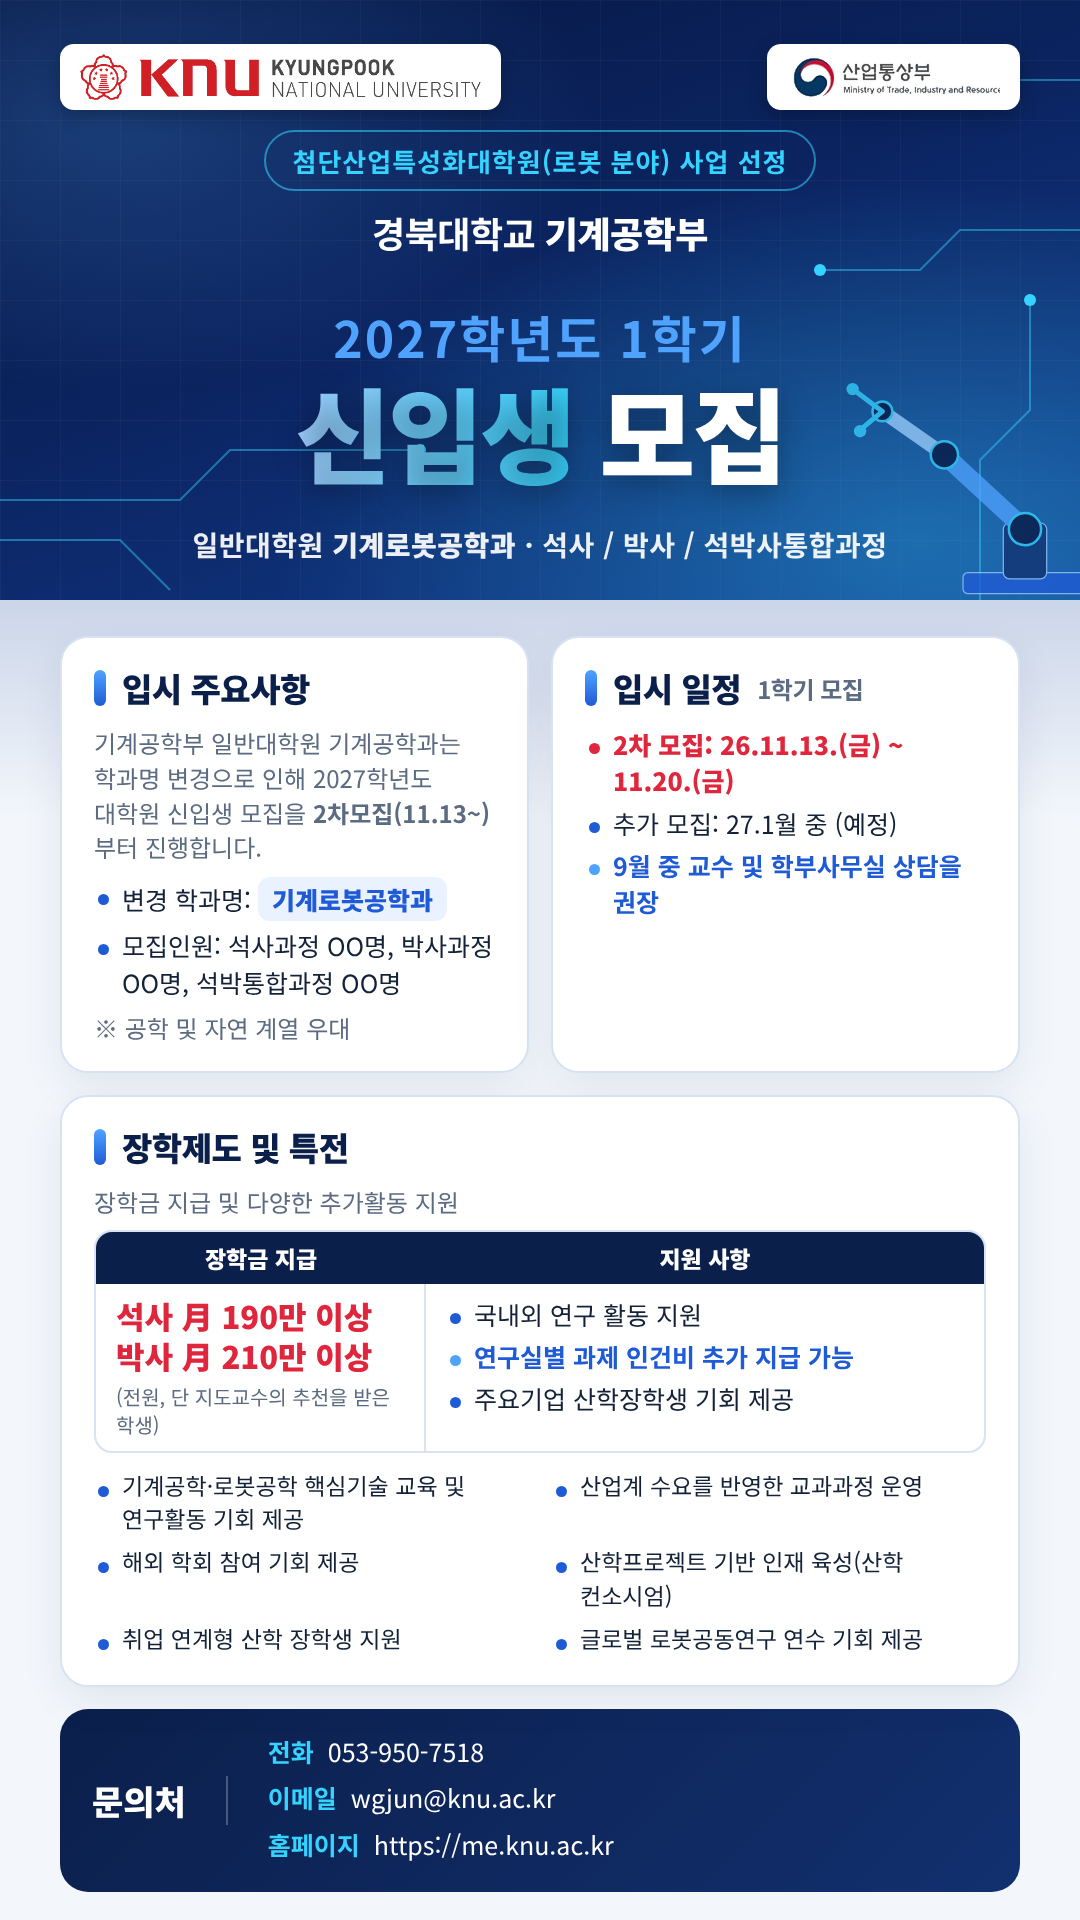
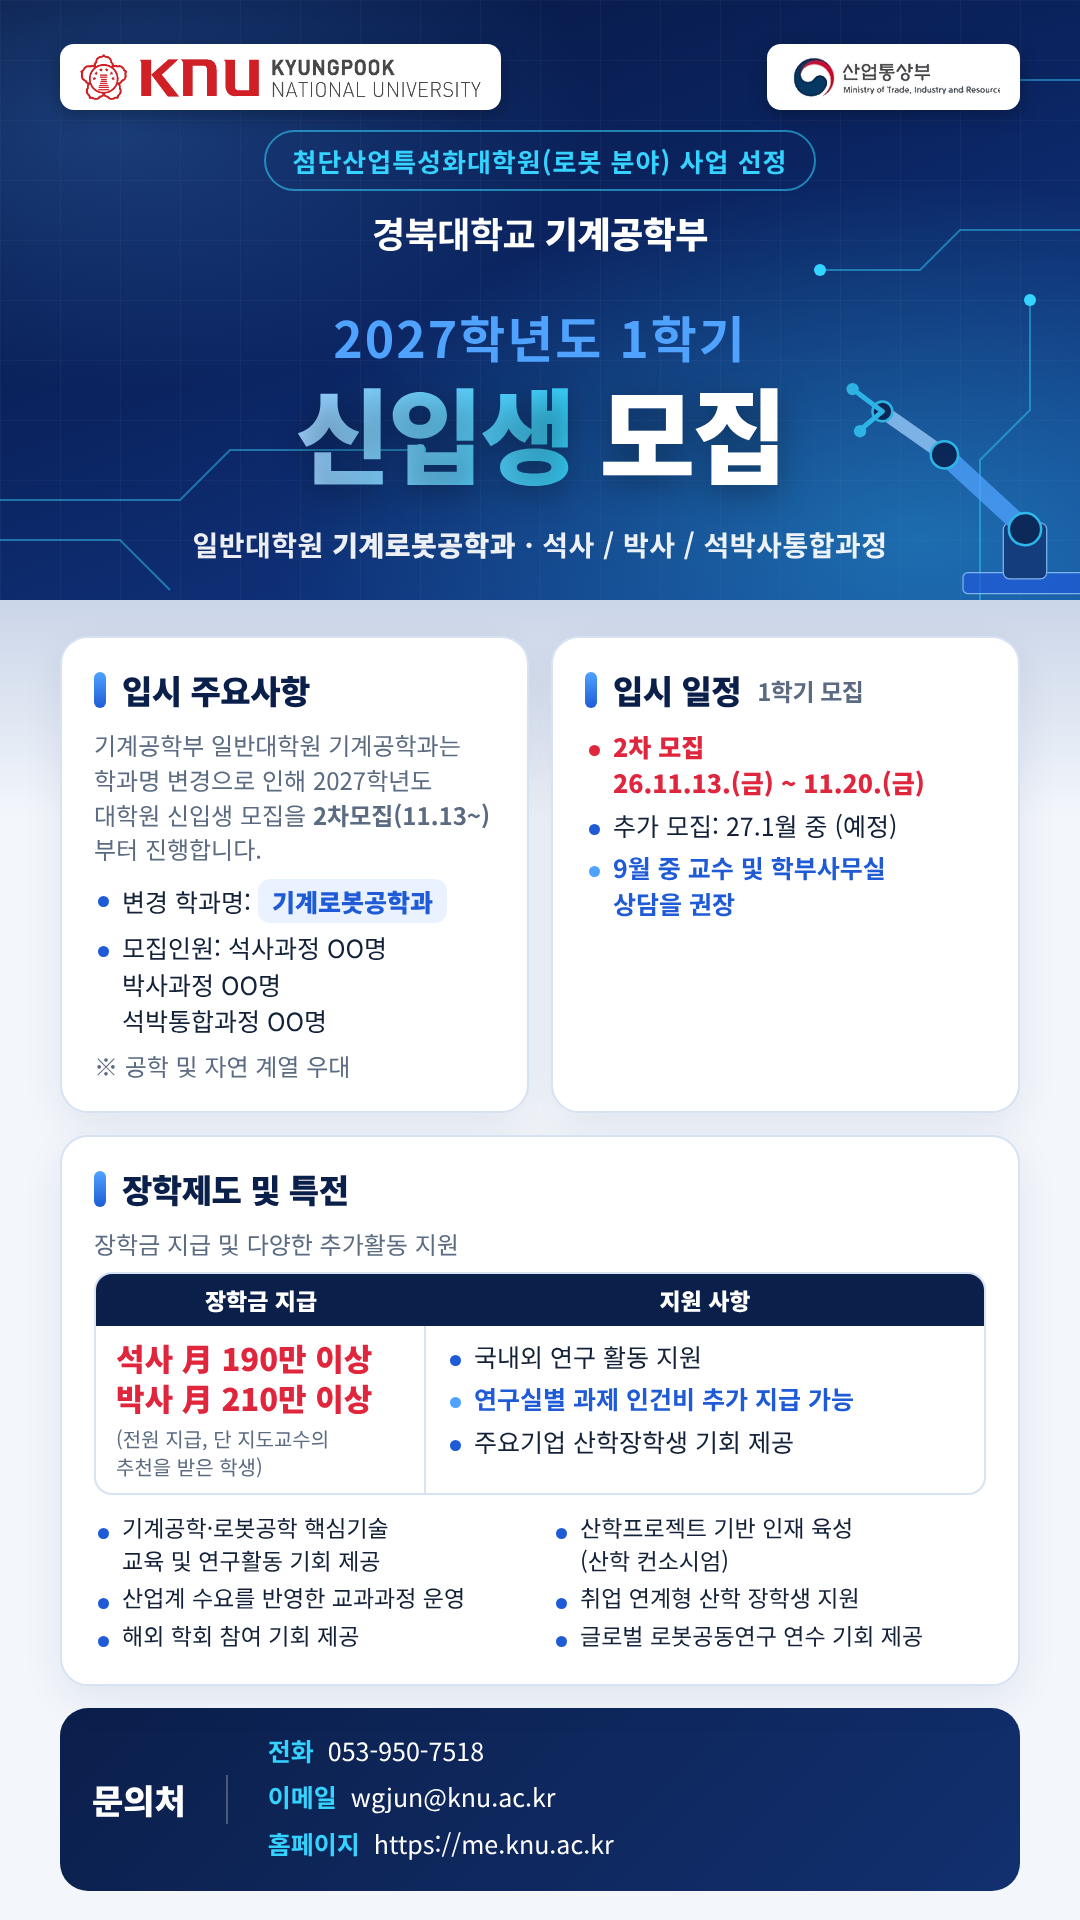
Pamphlet: clean up line breaks
Claude-Session: https://claude.ai/code/session_01X5vWuAxHQUAdM2fNyjj7ES

diff --git a/pamphlet/source.html b/pamphlet/source.html
@@ -32,7 +32,7 @@
   /* ---------- BODY ---------- */
   .body{position:relative;padding:36px 60px 0;background:var(--bg);height:1320px}
   .body::before{content:"";position:absolute;left:0;right:0;top:0;height:220px;background:linear-gradient(180deg,#123B8E 0%,var(--bg) 100%);opacity:.18}
-  .card{position:relative;background:#fff;border:2px solid var(--line);border-radius:28px;padding:26px 32px;box-shadow:0 14px 40px rgba(11,31,75,.08)}
+  .card{position:relative;background:#fff;border:2px solid var(--line);border-radius:28px;padding:28px 32px;box-shadow:0 14px 40px rgba(11,31,75,.08)}
   .card h3{display:flex;align-items:center;gap:16px;font-size:33px;font-weight:900;color:var(--navy);margin-bottom:14px;letter-spacing:-.5px}
   .card h3::before{content:"";width:12px;height:36px;border-radius:6px;background:linear-gradient(180deg,var(--sky),var(--blue))}
   .grid{display:grid;grid-template-columns:1fr 1fr;gap:22px;margin-bottom:22px}
@@ -54,7 +54,8 @@
   .sch .amt{border-right:2px solid var(--line)}
   .sch .amt b{display:block;font-size:31px;color:var(--red);font-weight:900;line-height:1.3}
   .sch .amt small{display:block;font-size:20px;color:var(--mute);margin-top:6px;line-height:1.4}
-  .perks{display:grid;grid-template-columns:1fr 1fr;gap:6px 24px}
+  .perks{columns:2;column-gap:24px}
+  .perks li{break-inside:avoid}
   .perks li{font-size:23px;margin-bottom:4px}
 
   /* contact */
@@ -126,7 +127,7 @@
       <p class="lead">기계공학부 일반대학원 기계공학과는 학과명 변경으로 인해 2027학년도 대학원 신입생 모집을 <b>2차모집(11.13~)</b>부터 진행합니다.</p>
       <ul>
         <li>변경 학과명: <span class="pill">기계로봇공학과</span></li>
-        <li>모집인원: 석사과정 OO명, 박사과정 OO명, 석박통합과정 OO명</li>
+        <li>모집인원: 석사과정 OO명<br>박사과정 OO명<br>석박통합과정 OO명</li>
       </ul>
       <div class="note">※ 공학 및 자연 계열 우대</div>
     </div>
@@ -134,9 +135,9 @@
     <div class="card">
       <h3>입시 일정 <small style="font-size:24px;color:var(--mute);font-weight:600">1학기 모집</small></h3>
       <ul>
-        <li class="hot">2차 모집: 26.11.13.(금) ~ 11.20.(금)</li>
+        <li class="hot">2차 모집<br>26.11.13.(금) ~ 11.20.(금)</li>
         <li>추가 모집: 27.1월 중 (예정)</li>
-        <li class="key">9월 중 교수 및 학부사무실 상담을 권장</li>
+        <li class="key">9월 중 교수 및 학부사무실<br>상담을 권장</li>
       </ul>
     </div>
   </div>
@@ -149,7 +150,7 @@
       <div class="amt">
         <b>석사 月 190만 이상</b>
         <b>박사 月 210만 이상</b>
-        <small>(전원, 단 지도교수의 추천을 받은 학생)</small>
+        <small>(전원 지급, 단 지도교수의<br>추천을 받은 학생)</small>
       </div>
       <div>
         <ul>
@@ -160,10 +161,10 @@
       </div>
     </div>
     <ul class="perks">
-      <li>기계공학·로봇공학 핵심기술 교육 및 연구활동 기회 제공</li>
+      <li>기계공학·로봇공학 핵심기술<br>교육 및 연구활동 기회 제공</li>
       <li>산업계 수요를 반영한 교과과정 운영</li>
       <li>해외 학회 참여 기회 제공</li>
-      <li>산학프로젝트 기반 인재 육성(산학 컨소시엄)</li>
+      <li>산학프로젝트 기반 인재 육성<br>(산학 컨소시엄)</li>
       <li>취업 연계형 산학 장학생 지원</li>
       <li>글로벌 로봇공동연구 연수 기회 제공</li>
     </ul>
